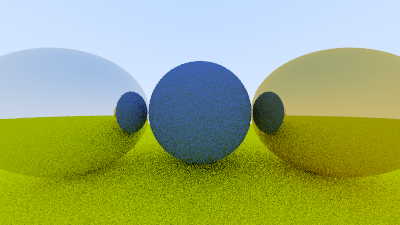
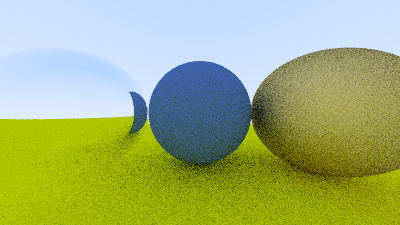
DIELECTRICS

diff --git a/src/main.py b/src/main.py
@@ -18,8 +18,8 @@ def main():
 
     material_ground  = material.Lambertian(color(0.8, 0.8, 0.0))
     material_center  = material.Lambertian(color(0.1, 0.2, 0.5))
-    material_left    = material.Metal(color(0.8, 0.8, 0.8))
-    material_right   = material.Metal(color(0.8, 0.6, 0.2))
+    material_left    = material.Dielectric(1.0 / 1.33)
+    material_right   = material.Metal(color(0.8, 0.6, 0.2), 1.0)
 
     world.add(Sphere(Point3(0, -100.5, -1), 100, material_ground))
     world.add(Sphere(Point3(0, 0, -1.2), 0.5, material_center))
